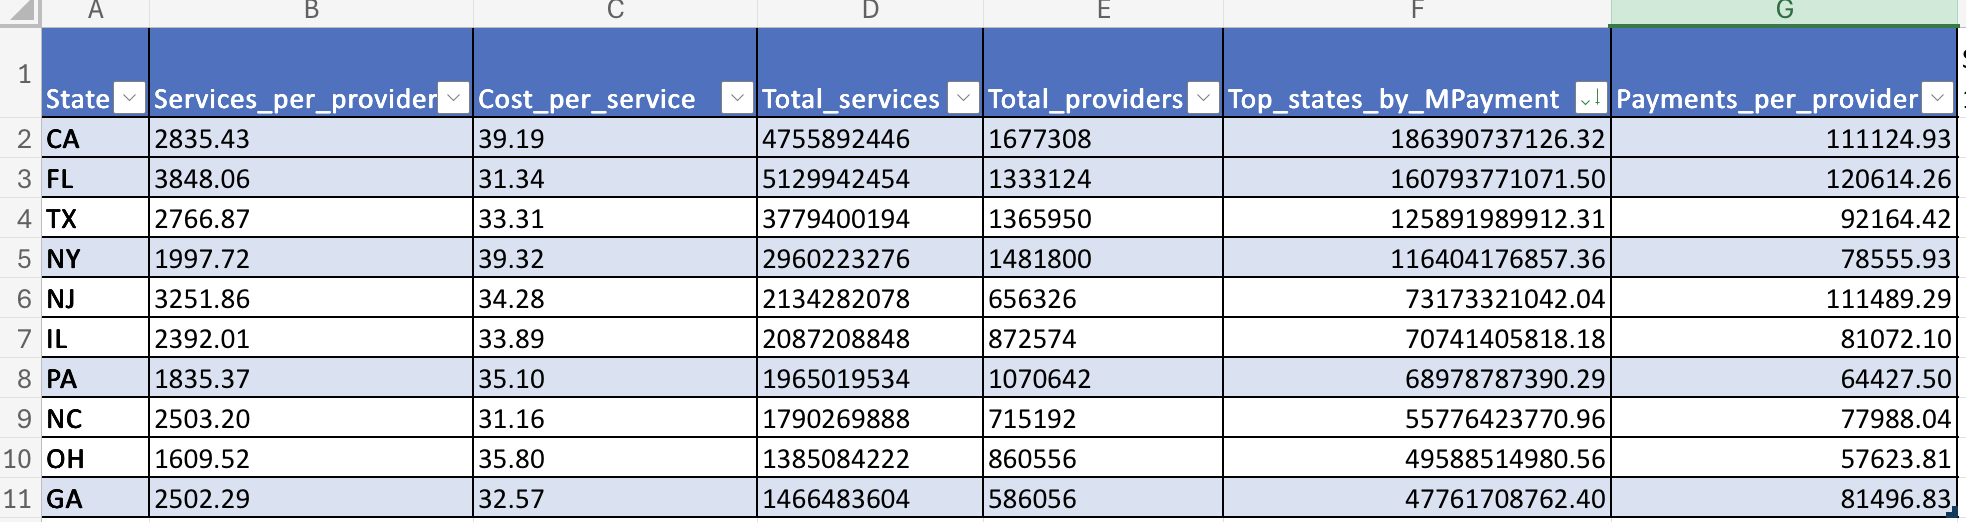
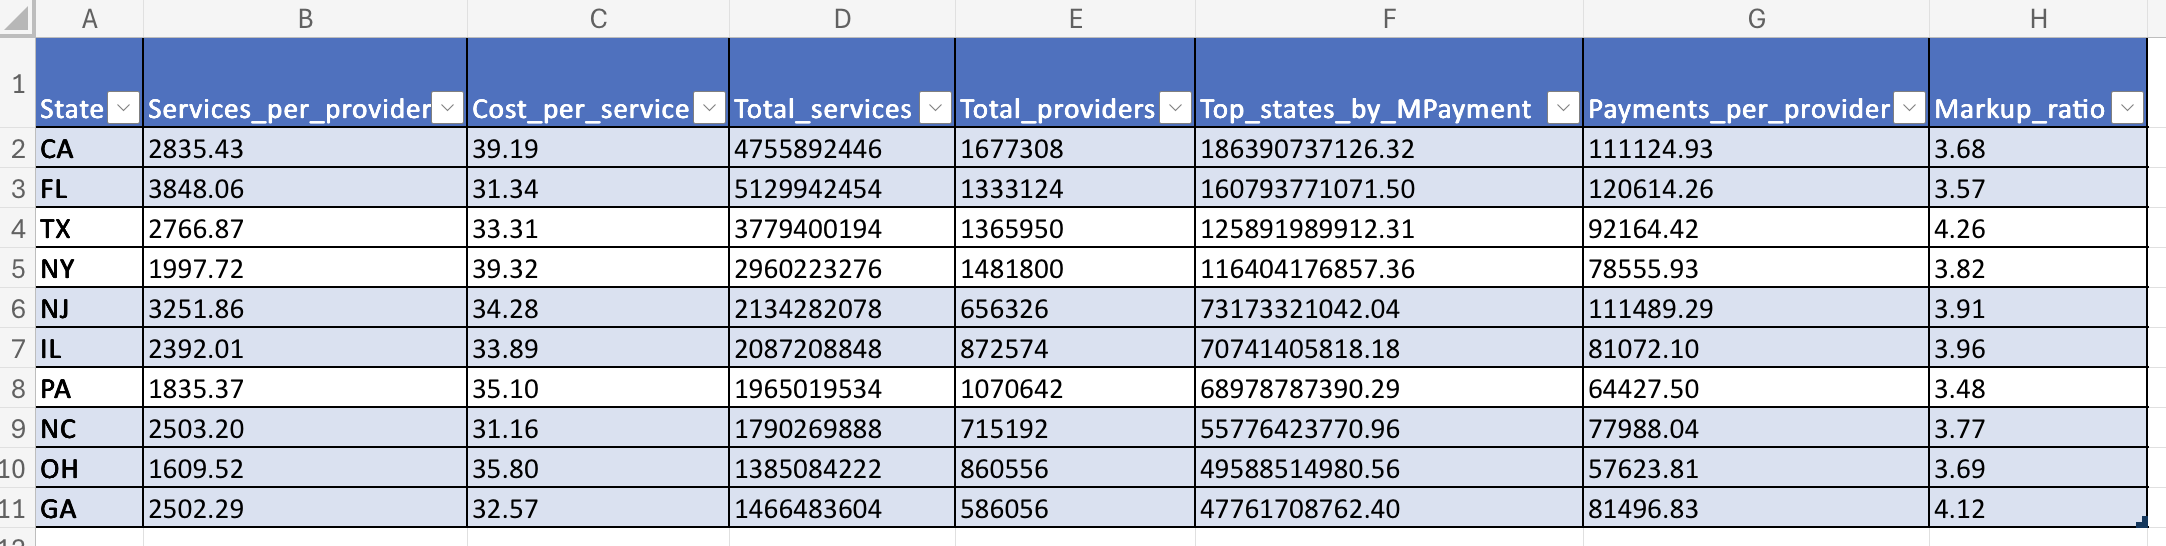
fix

diff --git a/medicare/README.md b/medicare/README.md
@@ -1,192 +1,181 @@
 
 # Medicare Spending Analysis Across U.S. States (2014–2023)
 
-## Project Overview
+## Project Structure
 
-This project analyzes Medicare spending across all U.S. states using CMS aggregated data (2014–2023).
+```text
+medicare/
+│
+├── data/
+│   └── state_summary.csv
+│
+├── excel/
+│   ├── cleanedData.png
+│   └── pivotTable.png
+│
+├── sql_queries.sql
+├── .gitignore
+└── README.md
+```
 
-The main focus is a subset of **top spending states**, used to understand what drives differences in Medicare expenditures:
+---
+
+# Project Overview
+
+This project analyzes Medicare spending across U.S. states using CMS aggregated data from 2014–2023.
+
+The analysis focuses on understanding what drives differences in Medicare expenditures across states:
+
 - utilization (service volume)
 - pricing (cost per service)
 - provider distribution
 
 ---
 
-## Tools Used
+# Tools Used
 
 - MySQL
 - Microsoft Excel (data exploration and validation)
 
 ---
 
-## Data Source
+# Data Source
 
 CMS Medicare State Summary dataset  
 Coverage: **2014–2023 (10 years)**
 
-Dataset includes:
-- total Medicare payments
-- total services
-- total providers
-- average markup ratio
+---
 
-Source: https://www.openmedicare.us
+# Data Preparation & Validation
+
+The original dataset included all U.S. states and territories.
+
+Data cleaning and validation steps included:
+
+- verified total row count
+- checked missing values in key fields
+- removed duplicate state entries
+- standardized valid state codes only
+
+### Missing values check
+
+Used to identify incomplete records in key fields:
+
+```sql
+SELECT *
+FROM state_summary
+WHERE state IS NULL
+   OR total_payments IS NULL
+   OR total_services IS NULL
+   OR total_providers IS NULL;
+   ```
+### Duplicate state validation
+
+Used to ensure each state appears only once or is properly aggregated:
+
+```sql
+SELECT state, COUNT(*)
+FROM state_summary
+GROUP BY state
+HAVING COUNT(*) > 1;
+```
+### Data aggregation (state-level standardization)
+
+Converted raw dataset into one row per state:
+
+```sql
+CREATE TABLE state_summary_clean AS
+SELECT
+    state,
+    SUM(total_payments) AS total_payments,
+    SUM(total_services) AS total_services,
+    SUM(total_providers) AS total_providers,
+    AVG(avg_markup_ratio) AS avg_markup_ratio
+FROM state_summary
+GROUP BY state;
+```
 
 ---
 
-## Data Preparation & Validation
-
-Initial dataset included all U.S. states and territories.  
-Data was checked and transformed into a state-level aggregated dataset for analysis.
-
-### Checks performed:
-
-- Verified total row count
-- Checked missing values in key fields
-- Verified no duplicate states
-- Standardized analysis to valid state codes only
-
-### Aggregation step:
-
-Data was consolidated to one row per state using:
-
-- total payments (sum)
-- total services (sum)
-- total providers (sum)
-- average markup ratio (average)
-
-This created a cleaned state-level dataset used for analysis.
-
----
-
-## Analysis Approach
-
-The analysis focused on:
-
-- Top states by Medicare spending
-- Bottom states by Medicare spending
-- Cost per service (efficiency metric)
-- Services per provider
-- Provider distribution across states
-- Comparison of high vs low spending states
-
----
-
-## Key Findings
-
-## What drives Medicare spending across large states — utilization or pricing?
-
-Medicare spending among the highest-spending states is primarily driven by **utilization (service volume)**.
-
-
-### Insight:
-A small group of states accounts for a large share of total Medicare spending due to both population size and utilization intensity.
-
-
-# Medicare Spending Analysis Across Large States
-
-## 1. What drives Medicare spending across large states — utilization or pricing?
-
-Medicare spending among the top 10 spending states is primarily driven by **utilization (service volume)**.
-
-### Key observations:
-
-- **Florida**
-    - Services: 5.13B
-    - Total payments: $160.8B
-    - Cost per service: 31.34
-
-- **California**
-    - Services: 4.76B
-    - Total payments: $186.4B
-    - Cost per service: 39.19
-
-- **Texas**
-    - Services: 3.78B
-    - Total payments: $125.9B
-    - Cost per service: 33.31
-
-- **New York**
-    - Services: 2.96B
-    - Total payments: $116.4B
-    - Cost per service: 39.32
-
-### Core insight:
-States with higher total payments consistently have **significantly higher service volumes**. Cost per service varies moderately across states, while differences in total spending are strongly aligned with differences in utilization.
-
----
-
-## 2. Do more productive providers reduce healthcare costs?
-
-Within the top 10 Medicare spending states, there is **no consistent relationship** between provider productivity and lower healthcare costs.
-
-### Key observations:
-
-- **Florida**
-    - Providers: 1.33M
-    - High service volume
-    - Cost per service: 31.34
-
-- **California**
-    - Providers: 1.68M
-    - High service volume
-    - Cost per service: 39.19
-
-- **New York**
-    - Providers: 1.48M
-    - Lower service volume
-    - Cost per service: 39.32
-
-### Insight:
-Across high-spending states, higher provider activity does not consistently translate into lower cost per service. Cost levels vary independently of provider density and productivity.
-
----
-
-## 3. Which states appear operationally inefficient?
-
-Operational differences are observed among high-spending states where elevated cost per service aligns with high total spending.
-
-### High-spending / higher-cost states:
-
-- **New York**
-    - Total spending: $116.4B
-    - Cost per service: 39.32
-
-- **California**
-    - Total spending: $186.4B
-    - Cost per service: 39.19
-
-### Comparison:
-
-- **Illinois**
-    - Total spending: $70.7B
-    - Cost per service: 33.89
-
-### Insight:
-New York and California combine high total spending with higher unit costs, reflecting more expensive service delivery structures compared to lower-cost states such as Illinois.
-
----
-
-## 4. How concentrated is Medicare spending across states?
-
-Medicare spending is concentrated in a small number of large states.
-
-### Top states:
-
-- **California**: $186.4B
-- **Florida**: $160.8B
-- **Texas**: $125.9B
-- **New York**: $116.4B
-
-### Insight:
-These states account for a substantial share of total Medicare payments, driven by both population size and high service utilization.
-
-## Data Validation (SQL + Excel)
-
+# Cleaned and unified dataset in Excel
 ![Cleaned Data](excel/cleanedData.png)
 
 ---
 
-## Pivot Table Analysis
+#  Pivot 1: Medicare Spending Drivers by State
 
-![Pivot Table Results](excel/pivotTable.png)
+![Pivot Table - Spending Drivers](excel/pivotTable1.png)
+
+##  Business Question
+What drives differences in Medicare spending across states — **service utilization (volume)** or **pricing (cost per service)**?
+
+---
+
+##  Key Insights
+
+- Medicare spending variation across states is mainly driven by **service utilization (volume)** rather than pricing metrics such as cost per service or markup ratio. High-spending states (CA, FL, TX, NY) consistently show higher service volumes rather than significantly higher price levels.
+- Cost per service remains relatively stable across states (~31–39), suggesting limited variation in pricing.
+- Markup ratio does not directly correlate with total Medicare spending. For example, Georgia shows a relatively high markup ratio despite lower total spending compared to Texas, indicating that pricing intensity is independent of system scale.
+
+---
+
+###  Recommendations
+
+**1. Focus on utilization control**
+- Target high-volume states (CA, FL, TX)
+- Establish benchmarks for services per provider
+
+**2. Define efficiency KPIs**
+- Services per provider
+- Provider productivity metrics
+- Standardized utilization indicators across states
+
+**3. Investigate structural pricing outliers**
+States such as GA (high markup ratio but lower total spending) may reflect differences in service mix or localized pricing structures.
+
+**4. Prioritize volume over price interventions**
+Since pricing is relatively stable, cost containment strategies should focus on **reducing unnecessary utilization rather than adjusting prices**.
+
+#  Pivot 2: Efficiency Ranking by State
+
+![Pivot Table - Efficiency Ranking](excel/pivotTable2.png)
+
+##  Business Question
+Which states show signs of **system overload** or **costly healthcare delivery structures**?
+
+---
+
+##  Key Insights
+
+- States with the highest **services per provider** (FL, NJ, GA) also tend to have lower or mid-range **cost per service**.  
+  This suggests that high workload is driven by **volume pressure, not higher pricing**.  
+  Example: FL has the highest service load (3,848) but one of the lowest costs per service (31.34).
+
+---
+
+- States with the highest **cost per service** (NY, CA) do not have the highest utilization levels.  
+  This indicates a **cost-driven efficiency issue**, not workload pressure.  
+  Example: NY has high cost per service (~39) but lower service intensity (~1,997 per provider).
+
+---
+
+- **Markup ratio variations** (e.g., TX, GA) do not align consistently with either volume or cost patterns.  
+  This suggests pricing structure differences exist independently from utilization levels.
+
+---
+
+### 💡 Recommendations
+
+**1. Address workload pressure where volume is high**
+- FL, NJ → expand provider capacity to reduce overload
+
+**2. Investigate high-cost systems**
+- NY, CA → review pricing and reimbursement structures
+
+**3. Do not assume correlation between cost and volume**
+- High utilization ≠ high cost per service
+- States behave differently across these dimensions
+
+**4. Use dual-axis policy view**
+- One axis = workload (services per provider)
+- Second axis = pricing efficiency (cost per service)
